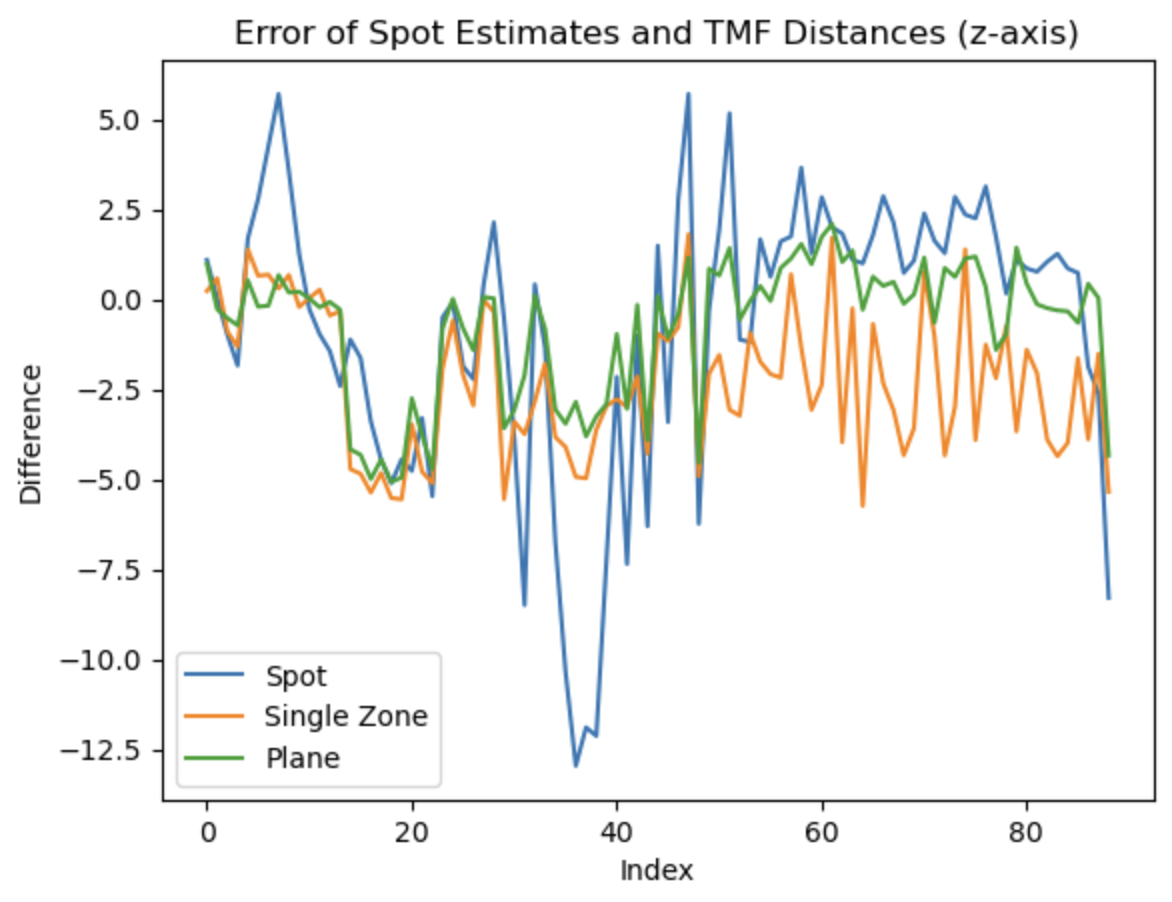
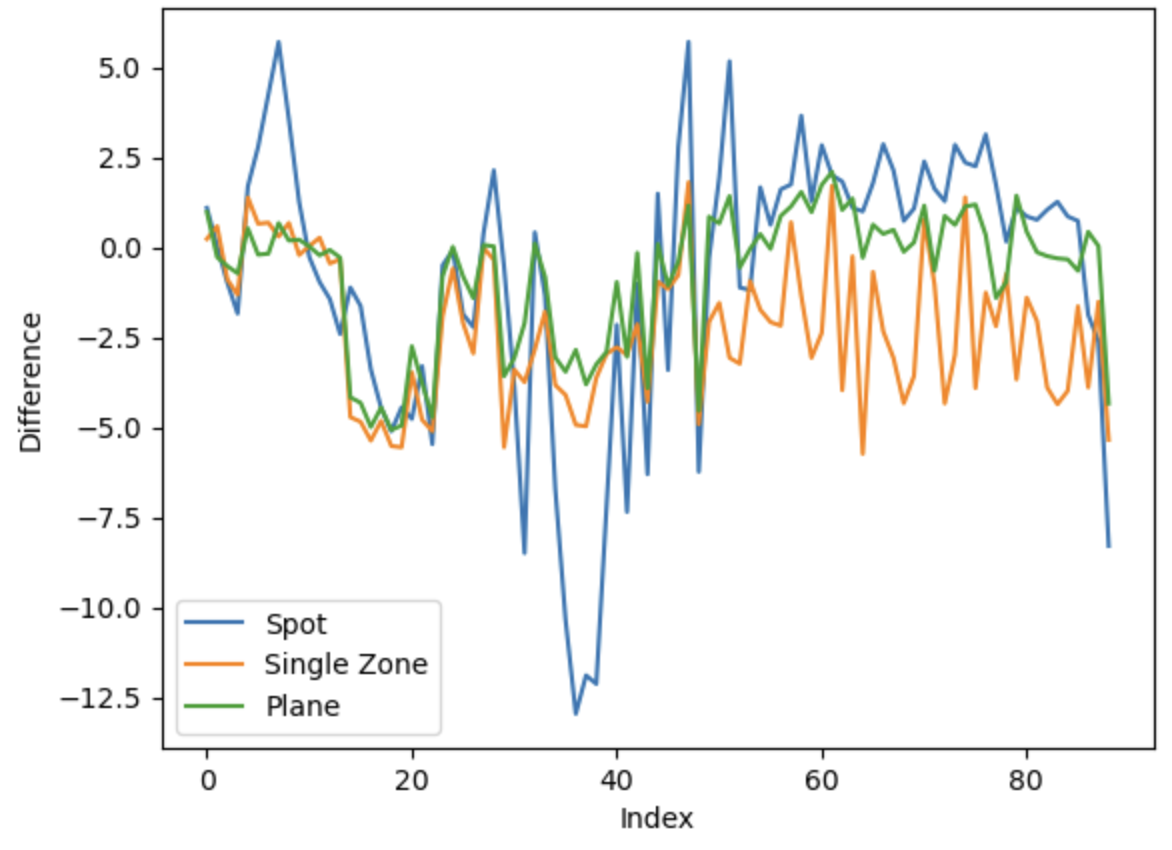
project writeup update

diff --git a/projects/spot_control/index.html b/projects/spot_control/index.html
@@ -8,7 +8,7 @@
 
     <title>Spot Control</title>
 
-    <meta name="description" content="">
+    <meta name="description" content="Closed-loop Mobile Manipulator Control Using a Distance Sensor">
     <meta name="viewport" content="width=device-width, initial-scale=1">
 
 
@@ -25,6 +25,8 @@
     <script src="https://maxcdn.bootstrapcdn.com/bootstrap/3.3.5/js/bootstrap.min.js"></script>
     <script src="https://cdnjs.cloudflare.com/ajax/libs/codemirror/5.8.0/codemirror.min.js"></script>
     <script src="https://cdnjs.cloudflare.com/ajax/libs/clipboard.js/1.5.3/clipboard.min.js"></script>
+    <script src='https://cdnjs.cloudflare.com/ajax/libs/mathjax/2.7.4/MathJax.js?config=default'></script>
+
     
     <script src="js/app.js"></script>
     <script src="js/video_comparison.js"></script>
@@ -47,7 +49,7 @@
                     </li>
                     <li>
                         <a href="https://gleicher.sites.cs.wisc.edu/">
-                          Michael Gleicher
+                            Michael Gleicher
                         </a>
                     </li>
                     </br>University of Wisconsin - Madison
@@ -62,9 +64,12 @@
                     Abstract
                 </h3>
                 <p class="text-justify">
-                    <!-- We investigate methods for determining if a planar surface contains geometric deviations (<i>e.g.</i>, protrusions, objects, divots, or cliffs) using only an instantaneous measurement from a miniature optical time-of-flight sensor. The key to our method is to utilize the entirety of information encoded in raw time-of-flight data captured by off-the-shelf distance sensors. We provide an analysis of the problem in which we identify the key ambiguity between geometry and surface photometrics. To overcome this challenging ambiguity, we fit a Gaussian mixture model to a small dataset of planar surface measurements. This model implicitly captures the expected geometry and distribution of photometrics of the planar surface and is used to identify measurements that are likely to contain deviations. We characterize our method on a variety of surfaces and planar deviations across a range of scenarios. We find that our method utilizing raw time-of-flight data outperforms baselines which use only derived distance estimates. We build an example application in which our method enables mobile robot obstacle and cliff avoidance over a wide field-of-view.<br><br -->
-                
-                    We propose a closed-loop control system for a mobile manipulator using exteroception from a miniature optical time-of-flight sensor. As the arm follows a designated path, I utilize arm-mounted proximity sensors to ensure that the trajectory stays within the intended target range with minimal deviation throughout its sweep. We do so by combining direct distance measurements with proprioceptive data through a Kalman Filter to probabilistically estimate the true height of the robot hand. We are motivated to use SPADs for sensing because they are low-cost, lightweight, and low-power. For this robot application, we can easily mount multiple sensors around the Spot arm without compromising any performance to Spot operation (unlike a bulky LIDAR). We demonstrate the effectiveness of our method in a variety of scenarios, including a mobile manipulator reaching for a target object and a mobile manipulator avoiding obstacles in its path.
+                    We propose a closed-loop control system for mobile manipulator sweeping using a miniature optical time-of-flight sensor.
+                    As the arm follows a designated path, we utilize arm-mounted proximity sensors to ensure that the trajectory stays within the intended target range with minimal deviation throughout its sweep.
+                    We do so by combining direct distance measurements with proprioceptive data through a Kalman Filter to probabilistically estimate the true height of the robot hand.
+                    We are motivated to use SPADs for sensing because they are low-cost, lightweight, and low-power.
+                    This enables a diverse set of robot sensing applications without compromising any performance capabilities.
+                    We demonstrate the effectiveness of our method with a simple visual servoing application, where a mobile manipulator is able to correct its sweeping trajectory based on the distance sensor feedback.
                 </p>
             </div>
         </div>
@@ -89,6 +94,13 @@
                 <video id="v1" width="100%" controls>
                     <source src="figs/capture.mp4" type="video/mp4" />
                 </video>
+
+                <br><br>
+
+                The Boston Dynamics Spot is the mobile manipulator used in this project.
+                We mount an AMS TMF8820 sensor (9 pixel, 3x3 configuration) underneath the hand.
+                We use a system of 8 OptiTrack motion capture cameras to provide ground truth data.
+                For data collection, we use a single floor surface with a flat plane, and we move the Spot arm and base in various configurations around the room.
             </div>
         </div>
         <br>
@@ -98,7 +110,22 @@
                 <h3>
                     Methodology
                 </h3>
-                TODO
+                <b>Data synchronization:</b> during data capture, we have three streams of data (distance sensor, proprioception, and ground truth). The distance sensor is by far the slowest stream (~2 Hz due to limitations in I2C bandwidth).
+                The other two streams are much faster (~100 Hz). Hence, we use the closest timestamps from the proprioception and ground truth streams to the distance sensor timestamps to synchronize the data.
+
+                <br><br>
+                <b>Proprioceptive data:</b> the Spot provides proprioceptive data in the form of joint angles, joint velocities, and corresponding transforms between frames of reference. The Cartesian estimate of the robot hand can be directly calculated from the joint angles and transforms.
+                Then, the distance corresponding to the hand-mounted sensor is given by \(1/\cos(\psi) * pose.z\), where \(pose.z\) is the z component of the hand pose in the world frame and \(\psi\) is the yaw angle of the hand in the world frame.
+                
+                <br><br>
+                <b>Distance sensor data:</b> first, the peak bin of the sensor's center zone is a reasonable approximation of the distance from the sensor to the ground.
+                A more robust method is plane fitting, where a plane is fit to peak bin distance to all nine zones. Then, the distance estimate is given by the distance to the plane from the center ray.
+                Finally, there is a constant position offset from the hand frame to the sensor frame that can be directly calculated/measured.
+
+                <br><br>
+                <b>Kalman Filter:</b> we use a 1D Kalman Filter from the FilterPy library for state estimation.
+                The hyperparameters are initialized based on noise from the dataset.
+                Then, the hyperparameters are tuned to give a balance between the distance sensor and proprioceptive data.
             </div>
         </div>
         <br>
@@ -109,34 +136,33 @@
                     Results
                 </h3>
                 <img src="figs/data.png" width="75%" class="center"/><br>
-                Figure 1: TODO
+                <b>Figure 1: Error of various data sources.</b> A sample visualization of the data captured by the distance sensor and proprioception across time over 90 samples. For the data captured by the distance sensor, we visualize both the distance measurements from peak-finding as well as from plane fitting.
 
                 <br><br>
                 <img src="figs/kf.png" width="75%" class="center"/><br>
-                Figure 2: TODO
-
+                <b>Figure 2: Error of proprioception, exteroception, and Kalman Filter.</b> With the Kalman Filter, we can meaningfully interpolate the true height of the robot hand between proprioceptive and distance sensor measurements. We can see that the Kalman Filter is able to smooth out the noise in the proprioceptive measurements and provide a more accurate estimate of the true height of the robot hand.
+                
                 <br><br>
+                With the Kalman Filter, we are able to improve Spot hand height localization from a MAE of 2.9mm (proprioception) to 1.5mm.
             </div>
         </div>
         <br>
 
-        <!-- <div class="row">
+        <div class="row">
             <div class="col-md-8 col-md-offset-2">
                 <h3>
-                    Citation
+                    Next Steps
                 </h3>
-                <div class="form-group col-md-12 col-md-offset-0">
-                    <textarea id="bibtex" class="form-control" readonly>
-@article{Sifferman2024using,
-    title={Using a Distance Sensor to Detect Deviations in a Planar Surface},
-    author={Sifferman, Carter and Sun, William and Gupta, Mohit and Gleicher, Michael},
-    journal={arXiv preprint arXiv:2408.03838},
-    year={2024}
-}
-                    </textarea>
-                </div>
+                We have shown that localization can be improved using a single miniature optical time-of-flight sensor even on an expensive, precise mobile manipulator.
+                While this demonstration is only in one dimension, it indicates the potential for 3D localization using a single distance sensor.
+                With a wide-range, multi-zone distance sensor, if we can identify and locate multiple planes within the sensor's field of view, it would enable 3D localization.
+                For example, the floor and walls of a room could be identified and localized with a single configuration on a single sensor.
+                This would be a significant improvement for lightweight computing applications (e.g., on microdrones), where bulky LIDARs are not feasible.
+                It also offers an edge over stereo cameras by directly encoding geometric information with reduced data requirements.
+                <br><br>
             </div>
-        </div> -->
+        </div>
+        <br>
 
         <div class="row">
             <div class="col-md-8 col-md-offset-2">

diff --git a/index.html b/index.html
@@ -59,7 +59,7 @@
     <div>
         <h2 class="noselect">Other projects</h2>
         <div class="publication row clearfix">
-            <div class="row-media" style="background-image: url(files/uwcrest.png);"></div>
+            <div class="row-media" style="background-image: url(files/spot_control.jpg);"></div>
             <div class="row-text">
                 <a class="bold">Closed-loop Mobile Manipulator Control Using a Distance Sensor</a><br/>
                 <span class="bold">William Sun</span>, Michael Gleicher<br/>
